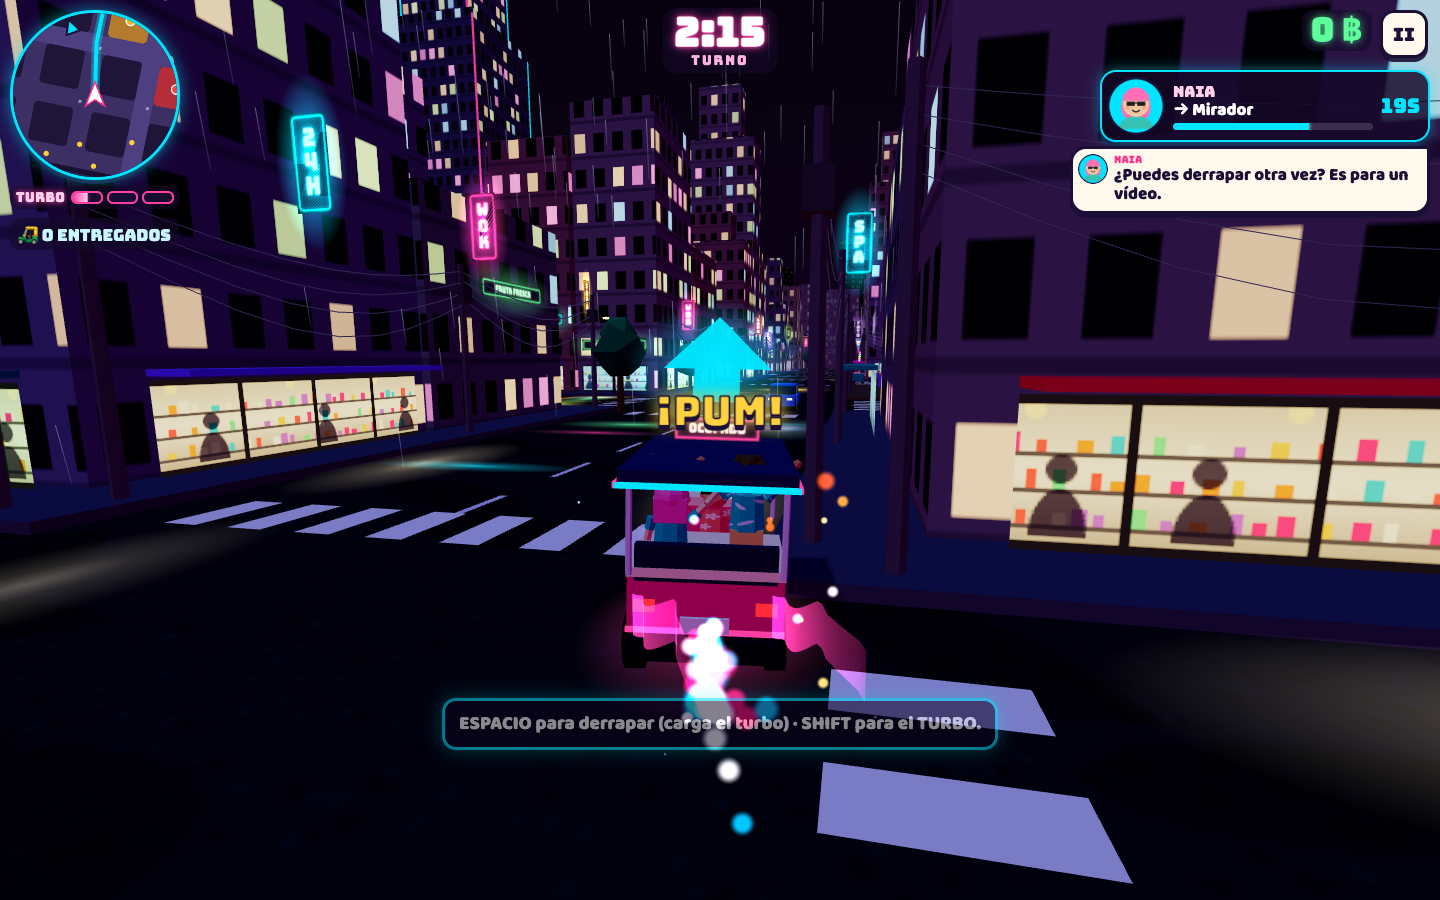
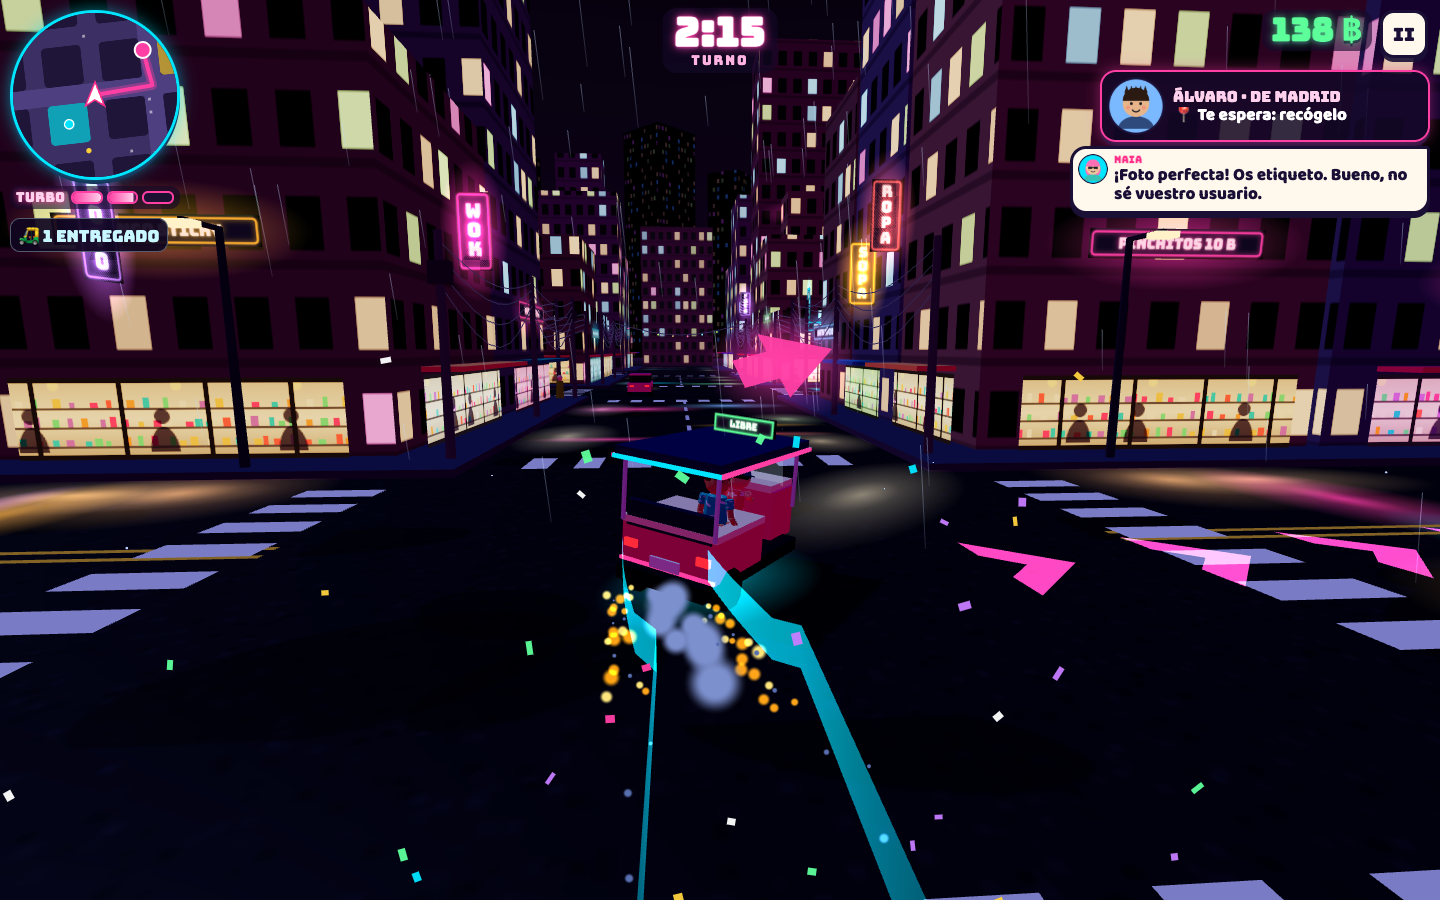
Bangkok ronda 3: flecha al siguiente cruce y cinta GPS de neón en el suelo, ayuda para remontar, primer cliente a la vista, umbrales de estrellas ajustados

diff --git a/src/stages/bangkok/index.js b/src/stages/bangkok/index.js
@@ -14,7 +14,7 @@ const SHIFT = 150;          // duración del turno (s)
 const dec = (v) => v.toFixed(1).replace('.', ',');
 const R_TUK = 1.3;          // radio de choque del tuk-tuk
 const STOP_R = 5.2;         // radio del círculo de parada
-const MAX_V = 19.5, TURBO_V = 32;
+const MAX_V = 18, TURBO_V = 31;
 
 export default {
   id: 'bangkok',
@@ -155,6 +155,8 @@ export default {
     window.__ruta = window.__ruta || {};
     window.__ruta.etapa = E;
     // solo para pruebas/capturas: mover el tuk-tuk
+    E.skip = (left) => { st.t = SHIFT - left; };
+    E.farolillo = () => { const l = lans.find((x) => x.on); return l ? { x: l.x, z: l.z } : null; };
     E.debug = () => ({ sparks: sparks.life.filter((l) => l > 0).length, spray: spray.life.filter((l) => l > 0).length, boost: st.boostT, max: sparks.max, vis: sparks.points.visible, inScene: !!sparks.points.parent });
     E.teleport = (x, z, yaw = st.yaw) => { st.x = x; st.z = z; st.yaw = yaw; st.vx = Math.sin(yaw) * 10; st.vz = Math.cos(yaw) * 10; camYaw = yaw; camera.position.set(x - Math.sin(yaw) * 7, 3.2, z - Math.cos(yaw) * 7); };
 
@@ -247,7 +249,8 @@ export default {
       st.rush = st.idx === st.rushIdx; // un cliente por turno va con PRISA y paga doble
       hudB.rush(st.rush);
       const dest = destOf(t);
-      const p = randomCurb(st.idx === 1 ? 35 : 45, st.idx === 1 ? 85 : 135, dest);
+      // el primero espera a la vista, en la misma calle de salida (se aprende sin girar)
+      const p = st.idx === 1 ? sidePoint(4, 3, 's', 0.35) : randomCurb(45, 135, dest);
       st.pick = p; st.dest = dest;
       setTarget(p, '#ff3fa4');
       // personajes esperando en la acera
@@ -263,7 +266,7 @@ export default {
       });
       tuk.setBusy(false);
       hudB.card(t, 'pick');
-      if (!st.hintDone.pick) { st.hintDone.pick = true; st.pendingHint = 'Sigue la flecha rosa y para dentro del círculo: el cliente sube solo.'; }
+      if (!st.hintDone.pick) { st.hintDone.pick = true; st.pendingHint = 'Sigue la flecha y las flechas de luz del suelo hasta el círculo: el cliente sube solo.'; }
       return true;
     }
     function setTarget(p, color) {
@@ -319,7 +322,7 @@ export default {
           tuk.body.add(m);
           st.seated.push({ obj: m });
         });
-        st.mode = 'ride';
+        st.mode = 'ride'; st.pickups = (st.pickups || 0) + 1; st.help = false; st.helpOn = false;
         setTarget(st.dest, '#00e5ff');
         const len = pathLen(st.x, st.z, st.path);
         st.tripMax = Math.round((len / 11.5 + 8) * (st.rush ? 0.85 : 1)); st.tripLeft = st.tripMax; st.tripCrash = 0;
@@ -386,8 +389,8 @@ export default {
     }
     function finish() {
       if (st.finished) return; st.finished = true;
-      const d = st.delivered, win = d >= 3;
-      const stars = !win ? 0 : 1 + (d >= 5 ? 1 : 0) + (d >= 7 || (d >= 6 && st.money >= 1600) ? 1 : 0);
+      const d = st.delivered, win = d >= 2;
+      const stars = !win ? 0 : 1 + (d >= 4 ? 1 : 0) + (d >= 6 || (d >= 5 && st.money >= 1400) ? 1 : 0);
       st.stars = stars;
       if (win && !st.brakeUsed) ctx.sticker('sin-frenar');
       E.terminado = true; E.estrellas = stars;
@@ -397,7 +400,7 @@ export default {
         moreStats: { turistas: d },
         shareText: `${d} turistas y ${st.money} ฿ en el tuk-tuk de Bangkok`,
         title: win ? (stars === 3 ? '¡Taxista del año!' : '¡Turno completado!') : 'Somchai no está contento…',
-        lines: [stars === 0 ? '1★: entrega 3 turistas' : stars === 1 ? '2★: entrega 5 turistas' : stars === 2 ? '3★: 7 turistas (o 6 y 1600 ฿)' : '¡Tres estrellas! Taxista de leyenda.', win ? `Somchai: «${stars === 3 ? 'Mi tuk-tuk nunca había ido tan rápido. ¡Os lo regalo! Es broma.' : 'Buen turno. El tuk-tuk sigue entero… casi.'}»` : 'Somchai: «Mañana lo intentamos otra vez, ¿vale?»'],
+        lines: [stars === 0 ? '1★: entrega 2 turistas' : stars === 1 ? '2★: entrega 4 turistas' : stars === 2 ? '3★: 6 turistas (o 5 y 1400 ฿)' : '¡Tres estrellas! Taxista de leyenda.', win ? `Somchai: «${stars === 3 ? 'Mi tuk-tuk nunca había ido tan rápido. ¡Os lo regalo! Es broma.' : 'Buen turno. El tuk-tuk sigue entero… casi.'}»` : 'Somchai: «Mañana lo intentamos otra vez, ¿vale?»'],
         delay: 300,
       });
     }
@@ -476,6 +479,44 @@ export default {
       return x > c.x0 - pad && x < c.x1 + pad && z > c.z0 - pad && z < c.z1 + pad;
     };
     const tmpV = new THREE.Vector3(), tmpV2 = new THREE.Vector3(), tmpColor = new THREE.Color();
+
+    // ───────── cinta GPS de neón: flechas en el suelo por la calzada a lo largo de la ruta ─────────
+    const NCH = 24, CH_GAP = 3.3;
+    const chSh = new THREE.Shape();
+    chSh.moveTo(0, 1.0); chSh.lineTo(1.35, -0.45); chSh.lineTo(0.55, -0.45); chSh.lineTo(0, 0.12); chSh.lineTo(-0.55, -0.45); chSh.lineTo(-1.35, -0.45); chSh.closePath();
+    const chGeo = new THREE.ShapeGeometry(chSh); chGeo.rotateX(Math.PI / 2);
+    const ribbonMat = new THREE.MeshBasicMaterial({ color: '#ffffff', side: THREE.DoubleSide, transparent: true, blending: THREE.AdditiveBlending, depthWrite: false, toneMapped: false, polygonOffset: true, polygonOffsetFactor: -4 });
+    const ribbon = new THREE.InstancedMesh(chGeo, ribbonMat, NCH);
+    ribbon.frustumCulled = false; ribbon.renderOrder = 3; scene.add(ribbon);
+    const chObj = new THREE.Object3D(), chCol = new THREE.Color(), chBase = new THREE.Color();
+    const poly = [];
+    function updateRibbon(t) {
+      // la cinta empieza en el eje de la calle donde estás y sigue la ruta del minimapa
+      const L = locate(st.x, st.z);
+      poly.length = 0;
+      if (L.node) poly.push([st.x, st.z]);
+      else if (L.a[0] === L.b[0]) poly.push([line(L.a[0]), st.z]);
+      else poly.push([st.x, line(L.a[1])]);
+      for (const p of st.path) poly.push(p);
+      chBase.set(st.mode === 'ride' ? '#00e5ff' : '#ff3fa4');
+      const phase = (t * 7) % CH_GAP;
+      let seg = 0, segStart = 0;
+      const segLen = (k) => Math.hypot(poly[k + 1][0] - poly[k][0], poly[k + 1][1] - poly[k][1]);
+      for (let k = 0; k < NCH; k++) {
+        const d = 3 + phase + k * CH_GAP;
+        while (seg < poly.length - 1 && d > segStart + segLen(seg)) { segStart += segLen(seg); seg++; }
+        if (seg >= poly.length - 1) { chObj.scale.setScalar(0); chObj.updateMatrix(); ribbon.setMatrixAt(k, chObj.matrix); continue; }
+        const [ax, az] = poly[seg], [bx, bz] = poly[seg + 1], l = segLen(seg) || 1, u = (d - segStart) / l;
+        chObj.position.set(ax + (bx - ax) * u, 0.07, az + (bz - az) * u);
+        chObj.rotation.set(0, Math.atan2(bx - ax, bz - az), 0);
+        chObj.scale.setScalar(1);
+        chObj.updateMatrix(); ribbon.setMatrixAt(k, chObj.matrix);
+        const fade = clamp(1 - d / 80, 0, 1) * clamp((d - 2) / 4, 0, 1);
+        ribbon.setColorAt(k, chCol.copy(chBase).multiplyScalar(fade * (st.help ? 2.4 : 1.7)));
+      }
+      ribbon.instanceMatrix.needsUpdate = true; if (ribbon.instanceColor) ribbon.instanceColor.needsUpdate = true;
+      ribbon.visible = st.phase === 'drive' || st.phase === 'board';
+    }
 
     // ───────── farolillos de la suerte: flotan sobre las calles, +10 ฿ y algo de turbo ─────────
     const NL = 30;
@@ -563,8 +604,9 @@ export default {
           }
           st.boostT = Math.max(0, st.boostT - dt);
           const boosting = st.boostT > 0;
-          const inStop = tg && dTarget < STOP_R && (!boosting || Math.abs(vf) < 20);
-          if (tg && dTarget < STOP_R && !inStop && !st.slowWarn) { st.slowWarn = true; compiSay(COMPI.slow, true); }
+          const stopR = STOP_R * (st.help ? 1.5 : 1);
+          const inStop = tg && dTarget < stopR && (!boosting || Math.abs(vf) < 20);
+          if (tg && dTarget < stopR && !inStop && !st.slowWarn) { st.slowWarn = true; compiSay(COMPI.slow, true); }
           if (dTarget > STOP_R + 3) st.slowWarn = false;
           const maxF = boosting ? TURBO_V : MAX_V;
           if (inStop) { vf *= Math.exp(-5.5 * dt); vs *= Math.exp(-5.5 * dt); }
@@ -578,7 +620,7 @@ export default {
           if (drifting) vf *= Math.exp(-0.1 * dt);
           if (drifting && !st.wasDrift) { st.yaw -= steer * 0.12; audio.sfx('whoosh', { vol: 0.4, pitch: 0.7 }); }
           const sp = Math.abs(vf);
-          const steerK = (0.35 + 0.65 * clamp(sp / 6, 0, 1)) * (drifting ? 2.75 : 2.05) * (sp > 24 ? 0.82 : 1); // gira cerrado aunque vaya despacio
+          const steerK = (0.35 + 0.65 * clamp(sp / 6, 0, 1)) * (drifting ? 2.95 : 2.4) * (sp > 24 ? 0.8 : 1); // gira cerrado aunque vaya despacio
           st.vx = fx * vf + sx * vs; st.vz = fz * vf + sz * vs;
           st.yaw -= steer * steerK * dt * (vf < -0.3 ? -1 : 1);
           // derrape: carga turbo y cuenta para la pegatina
@@ -615,6 +657,27 @@ export default {
               if (st.chatT <= 0 && !hudB.talking) { st.chatT = 8 + Math.random() * 3; const t = st.cur; say(t, t.ride[st.chatI++ % t.ride.length], 3400); }
             }
           } else st.hurrySaid = false;
+          // ayuda para remontar: sin recoger a nadie a los 45 s, o 25 s de viaje sin llegar
+          const needHelp = (st.mode === 'pick' && !st.pickups && st.t > 45) || (st.mode === 'ride' && st.cur && st.tripMax - st.tripLeft > 25);
+          if (needHelp && !st.help) { st.help = true; compiSay(['¡Te guío yo! Sigue las flechas del suelo.'], true); st.helpT = 3; hudB.hint('🧭 Sigue las flechas de luz del suelo · círculo más grande', 3500); }
+          if (!needHelp) st.help = false;
+          if (st.help) {
+            st.helpT -= dt;
+            if (st.helpT <= 0 && !hudB.talking) {
+              st.helpT = 4.5;
+              const gx = st.guide[0] - st.x, gz = st.guide[1] - st.z, gd = Math.hypot(gx, gz) || 1;
+              const rxv = -Math.cos(st.yaw), rzv = Math.sin(st.yaw);
+              const ahead = (gx * fx + gz * fz) / gd;
+              let msg = null;
+              if (ahead < -0.3) msg = '¡Por ahí no! ¡Da la vuelta!';
+              else if (st.path.length >= 2 && gd < 34) {
+                const [ax, az] = st.path[0], [bx2, bz2] = st.path[1], dx = bx2 - ax, dz = bz2 - az, dl = Math.hypot(dx, dz) || 1;
+                const side = (dx * rxv + dz * rzv) / dl, fwd = (dx * fx + dz * fz) / dl;
+                msg = side > 0.5 ? '¡En el próximo cruce, a la derecha!' : side < -0.5 ? '¡En el próximo cruce, a la izquierda!' : fwd > 0.5 ? '¡Todo recto en el cruce!' : null;
+              } else if (st.path.length === 1) msg = '¡Está en esta calle! ¡Frena en el círculo!';
+              if (msg) compiSay([msg], true);
+            }
+          }
           if (st.left <= 40 && !st.rushHour) {
             // momento cumbre: el último tramo es HORA PUNTA (propinas dobles, más tráfico y más rápido)
             st.rushHour = true;
@@ -688,8 +751,9 @@ export default {
         if (st.target && st.phase !== 'end') {
           if (!(st._rt > 0)) { st.path = routeFrom(st.x, st.z); st._rt = 0.15; } else st._rt -= dt;
           const p0 = st.path[0] || [st.target.x, st.target.z];
-          const close = Math.hypot(p0[0] - st.x, p0[1] - st.z) < 11 && st.path.length > 1;
-          const g = close ? st.path[1] : p0;
+          // siempre al SIGUIENTE CRUCE de la ruta (o al cliente si ya está en esta calle);
+          // gira cuando entras en el cruce, nunca antes (así no te mete contra las fachadas)
+          const g = p0;
           st.guide = g;
           const bearing = Math.atan2(g[0] - st.x, g[1] - st.z);
           st.arrowWant = st.phase === 'drive' || st.phase === 'board';
@@ -698,12 +762,14 @@ export default {
           // inclinada hacia la cámara (sobre su eje derecho): se lee igual apunte adelante o a un lado
           camRight.set(-Math.cos(camYaw), 0, Math.sin(camYaw));
           arrow.quaternion.copy(qTilt.setFromAxisAngle(camRight, 0.8)).multiply(qYaw.setFromAxisAngle(UP, arrowYaw));
-          const pulse = 1 + Math.sin(time * 6) * 0.08;
+          const pulse = (1 + Math.sin(time * 6) * 0.08) * (st.help ? 1.5 : 1);
           ring.scale.set(pulse, 1, pulse); ring.rotation.y += dt;
+          disc.scale.setScalar(st.help ? 1.5 : 1);
+          updateRibbon(time);
           column.visible = ring.visible = disc.visible = true;
           colMat.opacity = clamp((dTarget - 7) / 22, 0, 1); // se desvanece al llegar (la cámara se mete dentro)
           disc.material.opacity = 0.5 * clamp(dTarget / 8, 0.25, 1);
-        } else { st.arrowWant = false; column.visible = ring.visible = disc.visible = false; }
+        } else { st.arrowWant = false; column.visible = ring.visible = disc.visible = false; ribbon.visible = false; }
         // turistas esperando: saludan
         for (const w of st.waiting) {
           w.ch.pose(dTarget < 25 ? 'cheer' : 'wave', time + w.ph);

diff --git a/src/stages/bangkok/hud.js b/src/stages/bangkok/hud.js
@@ -18,12 +18,12 @@ const CSS = `
 @media (max-width: 480px) { .bkk-reloj small { display: none; } .bkk-reloj b { font-size: 26px; } }
 .bkk-reloj.punta { box-shadow: 0 0 16px rgba(255,159,28,.8); border: 2px solid #ff9f1c; }
 .bkk-reloj.punta small { color: #ffcf8a; }
-.bkk-reloj.aviso b { color: #ff5c5c; animation: bkkLate .5s infinite alternate; }
+.bkk-reloj.tarde b { color: #ff5c5c; animation: bkkLate .5s infinite alternate; }
 @keyframes bkkLate { to { transform: scale(1.12); } }
 .bkk-dinero { position: absolute; top: calc(10px + var(--safe-t)); right: calc(68px + var(--safe-r)); text-align: right; line-height: 1.05; background: rgba(20,8,40,.62); border-radius: 12px; padding: 3px 9px 4px; }
 .bkk-dinero b { font-size: clamp(20px, min(3.6vh, 5.6vw), 38px); color: #5dff9b; text-shadow: 0 0 8px rgba(93,255,155,.7), 0 3px 0 #1a1036; }
 .bkk-dinero small { display: block; font-size: clamp(10px, min(1.8vh, 2.8vw), 17px); color: #c9f7ff; margin-top: 2px; }
-.bkk-plus { position: absolute; top: calc(12px + var(--safe-t) + clamp(40px, 6.5vh, 70px)); right: calc(70px + var(--safe-r)); font-size: clamp(14px, 2.2vh, 22px); color: #ffd23f;
+.bkk-plus { position: absolute; top: calc(196px + var(--safe-t)); left: calc(12px + var(--safe-l)); font-size: clamp(14px, 2.2vh, 22px); color: #ffd23f;
   text-shadow: 0 2px 0 #1a1036, 0 0 8px rgba(255,210,63,.7); opacity: 0; }
 .bkk-plus.on { animation: bkkPlus .9s ease-out; }
 @keyframes bkkPlus { 0% { opacity: 0; transform: translateY(8px); } 20% { opacity: 1; transform: none; } 80% { opacity: 1; } 100% { opacity: 0; transform: translateY(-14px); } }
@@ -34,7 +34,7 @@ const CSS = `
 .bkk-cobro .k-est { margin-top: 10px; font-size: clamp(30px, 5vh, 50px); line-height: 1; color: #ffd23f; -webkit-text-stroke: 2px #1a1036; text-shadow: 0 4px 0 #1a1036; letter-spacing: 4px; }
 .bkk-cobro .k-est i { font-style: normal; color: #4a3f66; }
 .bkk-cobro .k-sub { display: inline-block; margin-top: 8px; background: #1a1036; color: #fff; border-radius: 99px; padding: 3px 12px; font-size: clamp(12px, 1.8vh, 17px); }
-.bkk-banner { position: absolute; left: 50%; top: 52%; transform: translate(-50%, -50%); white-space: nowrap; font-size: clamp(20px, 3.6vh, 36px); color: #ffd23f; background: #1a1036;
+.bkk-banner { position: absolute; left: 50%; top: 52%; transform: translate(-50%, -50%); white-space: normal; text-align: center; width: max-content; max-width: 88vw; font-size: clamp(20px, 3.6vh, 36px); color: #ffd23f; background: #1a1036;
   border: 3px solid #ffd23f; border-radius: 16px; padding: 6px 16px; box-shadow: 0 0 20px rgba(255,210,63,.6), 0 5px 0 #000; opacity: 0; }
 .bkk-pop { position: absolute; left: 50%; top: 47%; transform: translate(-50%, -50%); white-space: nowrap; font-size: clamp(26px, 4.6vh, 46px); color: #ffd23f;
   -webkit-text-stroke: 2px #1a1036; text-shadow: 0 4px 0 #1a1036, 0 0 16px currentColor; opacity: 0; }
@@ -76,10 +76,10 @@ const CSS = `
   border-radius: 14px; padding: 8px 14px; font-family: var(--texto); font-weight: 800; font-size: clamp(15px, 2.1vh, 21px); text-align: center; max-width: 86vw; opacity: 0; transition: opacity .3s; }
 .bkk-pista.on { opacity: 1; }
 @media (max-width: 600px) { .bkk-pista { bottom: auto; top: calc(268px + var(--safe-t)); font-size: 14px; } .bkk-burbuja { font-size: 13px; } }
-.bkk-cuenta { position: absolute; top: calc(162px + var(--safe-t)); left: calc(10px + var(--safe-l)); background: rgba(20,8,40,.62); border-radius: 10px; padding: 3px 8px;
-  font-size: clamp(11px, 1.8vh, 17px); color: #c9f7ff; white-space: nowrap; }
+.bkk-cuenta { position: absolute; top: calc(162px + var(--safe-t)); left: calc(10px + var(--safe-l)); background: rgba(14,4,32,.92); border: 1px solid rgba(201,247,255,.35); border-radius: 10px; padding: 3px 8px;
+  font-size: clamp(10px, min(1.8vh, 2.6vw), 17px); color: #c9f7ff; white-space: nowrap; }
 .bkk-cuenta.pop { animation: bkkPop .35s; }
-@media (min-width: 900px) { .bkk-cuenta { top: calc(218px + var(--safe-t)); } }
+@media (min-width: 900px) { .bkk-cuenta { top: calc(218px + var(--safe-t)); } .bkk-plus { top: calc(256px + var(--safe-t)); } }
 .btn-tactil[data-id="turbo"] { background: conic-gradient(#ff3fa4 calc(var(--carga, 0) * 1%), #5a2a55 0) !important; }
 .btn-tactil[data-id="drift"] { box-shadow: 0 5px 0 var(--tinta), 0 0 18px rgba(0,229,255,.6); }
 .tema-bangkok .grito { text-shadow: 0 0 14px #ff3fa4, 0 4px 0 #1a1036; }
@@ -130,7 +130,7 @@ export function createHud(ctx, mm) {
     root,
     clock(sec) {
       const s = Math.max(0, Math.ceil(sec)), txt = `${Math.floor(s / 60)}:${String(s % 60).padStart(2, '0')}`;
-      if (txt !== lastClock) { reloj.firstElementChild.textContent = txt; lastClock = txt; reloj.classList.toggle('aviso', s <= 15); }
+      if (txt !== lastClock) { reloj.firstElementChild.textContent = txt; lastClock = txt; reloj.classList.toggle('tarde', s <= 15); /* no 'aviso': es la clase de los toasts del núcleo */ }
     },
     money(n, count) {
       if (n === lastMoney && count === api._c) return;
